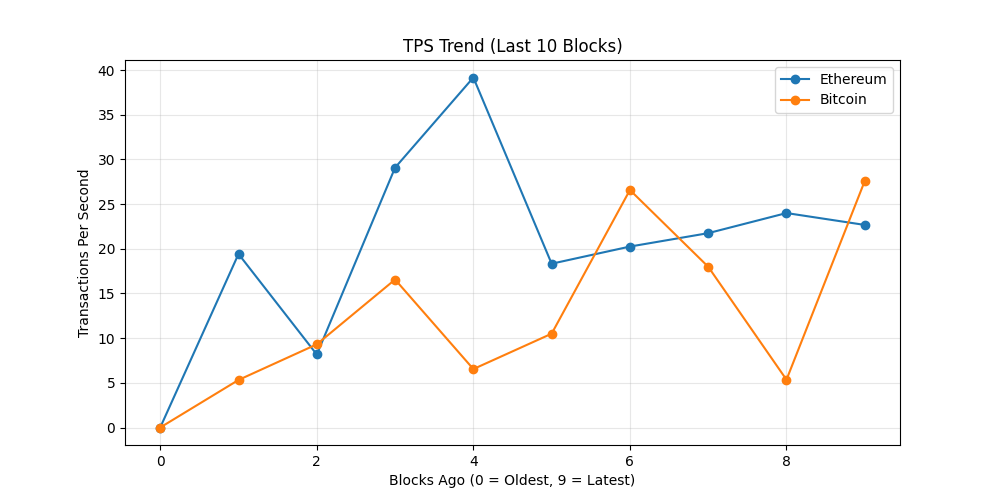
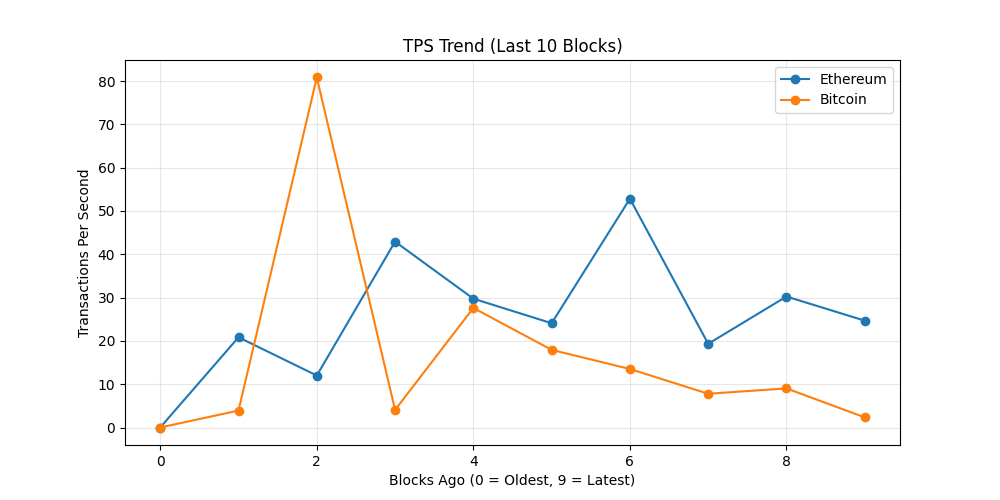
chore: update on-chain dashboard

diff --git a/README.md b/README.md
@@ -19,7 +19,7 @@ The README itself acts as the dashboard and is regenerated automatically on a 6 
 demonstrating a production-style, infrastructure-focused observability workflow rather
 than a traditional UI-driven approach.
 
-_Last updated: 2026-06-30 09:59 UTC_
+_Last updated: 2026-06-30 14:42 UTC_
 
 ## API Usage (GetBlock.io)
 - Calls used: **24**
@@ -27,8 +27,8 @@ _Last updated: 2026-06-30 09:59 UTC_
 ## Network Metrics
 | Chain | Block Height | TX Count | TPS (10 blk avg) | Block Util | Avg Fee |
 |------|-------------|----------|------------------|------------|---------|
-| Ethereum | 25429750 | 272 | 22.67 | 45.32% | 0.1 Gwei |
-| Bitcoin | 956056 | 5546 | 27.59 | 99.79% | N/A |
+| Ethereum | 25431156 | 296 | 24.67 | 45.03% | 0.4 Gwei |
+| Bitcoin | 956082 | 3808 | 2.34 | 99.88% | N/A |
 
 ## Visuals
 ### Transactions Trend
@@ -43,11 +43,11 @@ _Last updated: 2026-06-30 09:59 UTC_
 ## Whale Alerts (latest block)
 - Transaction hashes are truncated for readability.
 - Full hashes are available in `dashboards/metrics.json`
-- Bitcoin | 1791.2 BTC | `a0fb5ac7062b…`
-- Bitcoin | 174.79 BTC | `2b17e007f6da…`
-- Bitcoin | 137.82 BTC | `2afd7465add3…`
-- Bitcoin | 232.68 BTC | `5a751d32dbff…`
-- Bitcoin | 142.67 BTC | `2c55a055e655…`
+- Bitcoin | 250.0 BTC | `62dffdc21c1c…`
+- Bitcoin | 105.13 BTC | `903b5780a5dd…`
+- Bitcoin | 102.7 BTC | `3388ea96d2e3…`
+- Bitcoin | 238.79 BTC | `3d303fef854c…`
+- Bitcoin | 919.33 BTC | `0054c49636d8…`
 
 ## Run locally
 
